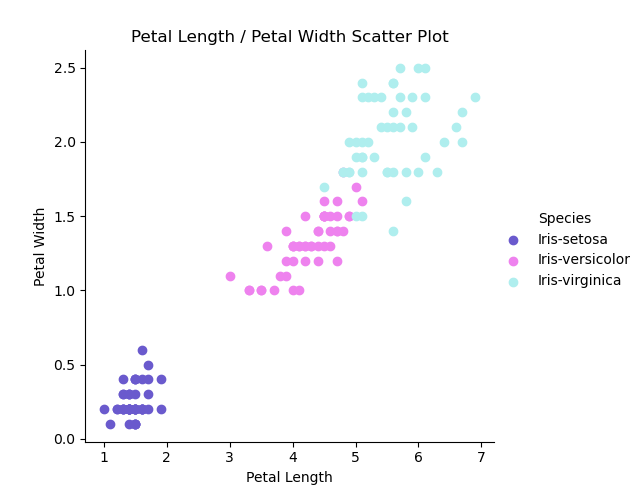
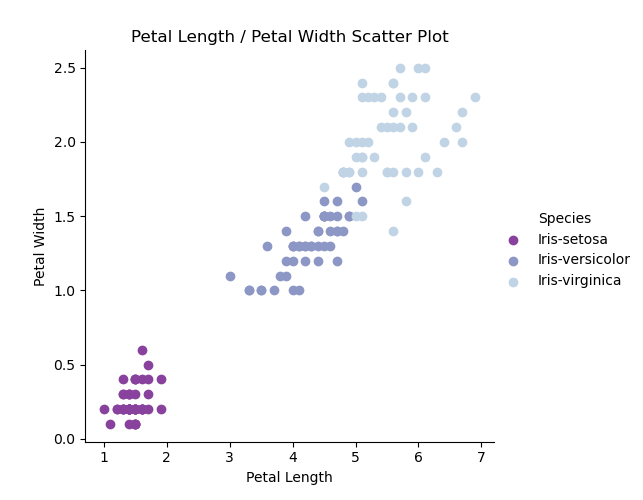
More Plot Colours

diff --git a/analysis.py b/analysis.py
@@ -60,39 +60,39 @@ def dataSummary():
 def histograms():
 
     ax = plt.axes()
-    plt.hist(df["Sepal Length"], color = "MediumPurple")
+    plt.hist(df["Sepal Length"], color = "#810f7c", ec = "black")
     plt.title("Sepal Length Histogram")
     plt.xlabel("Sepal Length")
-    plt.grid(linestyle = "dashed", )
+    #plt.grid(linestyle = "dashed")
     ax.set_facecolor("lightgrey")
     plt.savefig("./plots/SLHist.png")
     plt.show()
     
 
     ax = plt.axes()
-    plt.hist(df["Sepal Width"], color = "slateblue")
+    plt.hist(df["Sepal Width"], color = "#8856a7", ec = "black")
     plt.title("Sepal Width Histogram")
     plt.xlabel("Sepal Width")
-    plt.grid(linestyle = "dashed", )
+    #plt.grid(linestyle = "dashed")
     ax.set_facecolor("lightgrey")    
     plt.savefig("./plots/SWHist.png")
     plt.show()
 
     ax = plt.axes()
-    plt.hist(df["Petal Length"], color = "Violet")
+    plt.hist(df["Petal Length"], color = "#8c96c6", ec = "black")
     plt.title("Petal Length Histogram")
     plt.xlabel("Petal Length")
-    plt.grid(linestyle = "dashed", )
+    #plt.grid(linestyle = "dashed")
     ax.set_facecolor("lightgrey")
     plt.savefig("./plots/PLHist.png")
     plt.show()
     
 
     ax = plt.axes()
-    plt.hist(df["Petal Width"], color = "Indigo")
+    plt.hist(df["Petal Width"], color = "#b3cde3", ec = "black")
     plt.title("Petal Width Histogram")
     plt.xlabel("Petal Width")
-    plt.grid(linestyle = "dashed", )
+    #plt.grid(linestyle = "dashed")
     ax.set_facecolor("lightgrey")
     plt.savefig("./plots/PWHist.png")
     plt.show()
@@ -102,27 +102,27 @@ def histograms():
 #Scatterplots
 def scatterPlots():
     
-    sns.FacetGrid(df,hue="Species", palette = ['SlateBlue', 'Violet',  'PaleTurquoise'], height=5).map(plt.scatter, "Sepal Length", "Sepal Width" ).add_legend()
+    sns.FacetGrid(df,hue="Species", palette="BuPu_r", height=5).map(plt.scatter, "Sepal Length", "Sepal Width" ).add_legend()
     plt.title("Sepal Length / Sepal Width Scatter Plot")
     plt.subplots_adjust(top=0.9)
     plt.savefig("./plots/SLSWscatterPlot.png")
 
-    sns.FacetGrid(df,hue="Species", palette = ['SlateBlue', 'Violet',  'PaleTurquoise'], height=5).map(plt.scatter, "Petal Length", "Petal Width" ).add_legend() 
+    sns.FacetGrid(df,hue="Species", palette="BuPu_r", height=5).map(plt.scatter, "Petal Length", "Petal Width" ).add_legend() 
     plt.title("Petal Length / Petal Width Scatter Plot")     
     plt.subplots_adjust(top=0.9) 
     plt.savefig("./plots/PLPWscatterPlot.png")
 
-    sns.FacetGrid(df,hue="Species", palette = ['SlateBlue', 'Violet',  'PaleTurquoise'], height=5).map(plt.scatter, "Sepal Length", "Petal Length").add_legend()
+    sns.FacetGrid(df,hue="Species", palette="BuPu_r", height=5).map(plt.scatter, "Sepal Length", "Petal Length").add_legend()
     plt.title("Sepal Length / Petal Length Scatter Plot")
     plt.subplots_adjust(top=0.9)
     plt.savefig("./plots/SLPLscatterPlot.png")  
   
-    sns.FacetGrid(df,hue="Species", palette = ['SlateBlue', 'Violet',  'PaleTurquoise'], height=5).map(plt.scatter, "Sepal Width" , "Petal Width" ).add_legend()
+    sns.FacetGrid(df,hue="Species", palette="BuPu_r", height=5).map(plt.scatter, "Sepal Width" , "Petal Width" ).add_legend()
     plt.title("Sepal Width / Petal Width Scatter Plot")
     plt.subplots_adjust(top=0.9)
     plt.savefig("./plots/SWPWscatterPlot.png")
 
-    sns.pairplot(df,hue="Species", palette = ['SlateBlue', 'Violet',  'PaleTurquoise'], height=3)
+    sns.pairplot(df,hue="Species", palette="BuPu_r", height=3)
     plt.savefig("./plots/scatterPlot.png")
 
     plt.show()
@@ -130,10 +130,10 @@ def scatterPlots():
 ##########################################################################
 def distPlot():
     distplot, axes = plt.subplots(2,2, figsize=(10,10), sharex=False)
-    sns.histplot( df["Sepal Length"] , kde = True, stat="density", linewidth=1, color="firebrick"  , ax=axes[0, 0])
-    sns.histplot( df["Sepal Width" ] , kde = True, stat="density", linewidth=1, color="royalblue"  ,ax=axes[0, 1]) 
-    sns.histplot( df["Petal Length"] , kde = True, stat="density", linewidth=1, color="forestgreen", ax=axes[1, 0]) 
-    sns.histplot( df["Petal Width" ] , kde = True, stat="density", linewidth=1, color="violet"     , ax=axes[1, 1])
+    sns.histplot( df["Sepal Length"] , kde = True, stat="density", linewidth=1, color="#810f7c", ax=axes[0, 0])
+    sns.histplot( df["Sepal Width" ] , kde = True, stat="density", linewidth=1, color="#8856a7" ,ax=axes[0, 1]) 
+    sns.histplot( df["Petal Length"] , kde = True, stat="density", linewidth=1, color="#8c96c6", ax=axes[1, 0]) 
+    sns.histplot( df["Petal Width" ] , kde = True, stat="density", linewidth=1, color="#b3cde3", ax=axes[1, 1])
     plt.suptitle("Combined Histograms and Distribution Estimation")
     plt.savefig("./plots/distPlot.png")
     plt.show()
@@ -179,7 +179,7 @@ def heatMap():
 #histograms()
 #scatterPlots()
 #distPlot()
-boxPlots()
-violinPlots()
+#boxPlots()
+#violinPlots()
 #stack()
 #heatMap()
